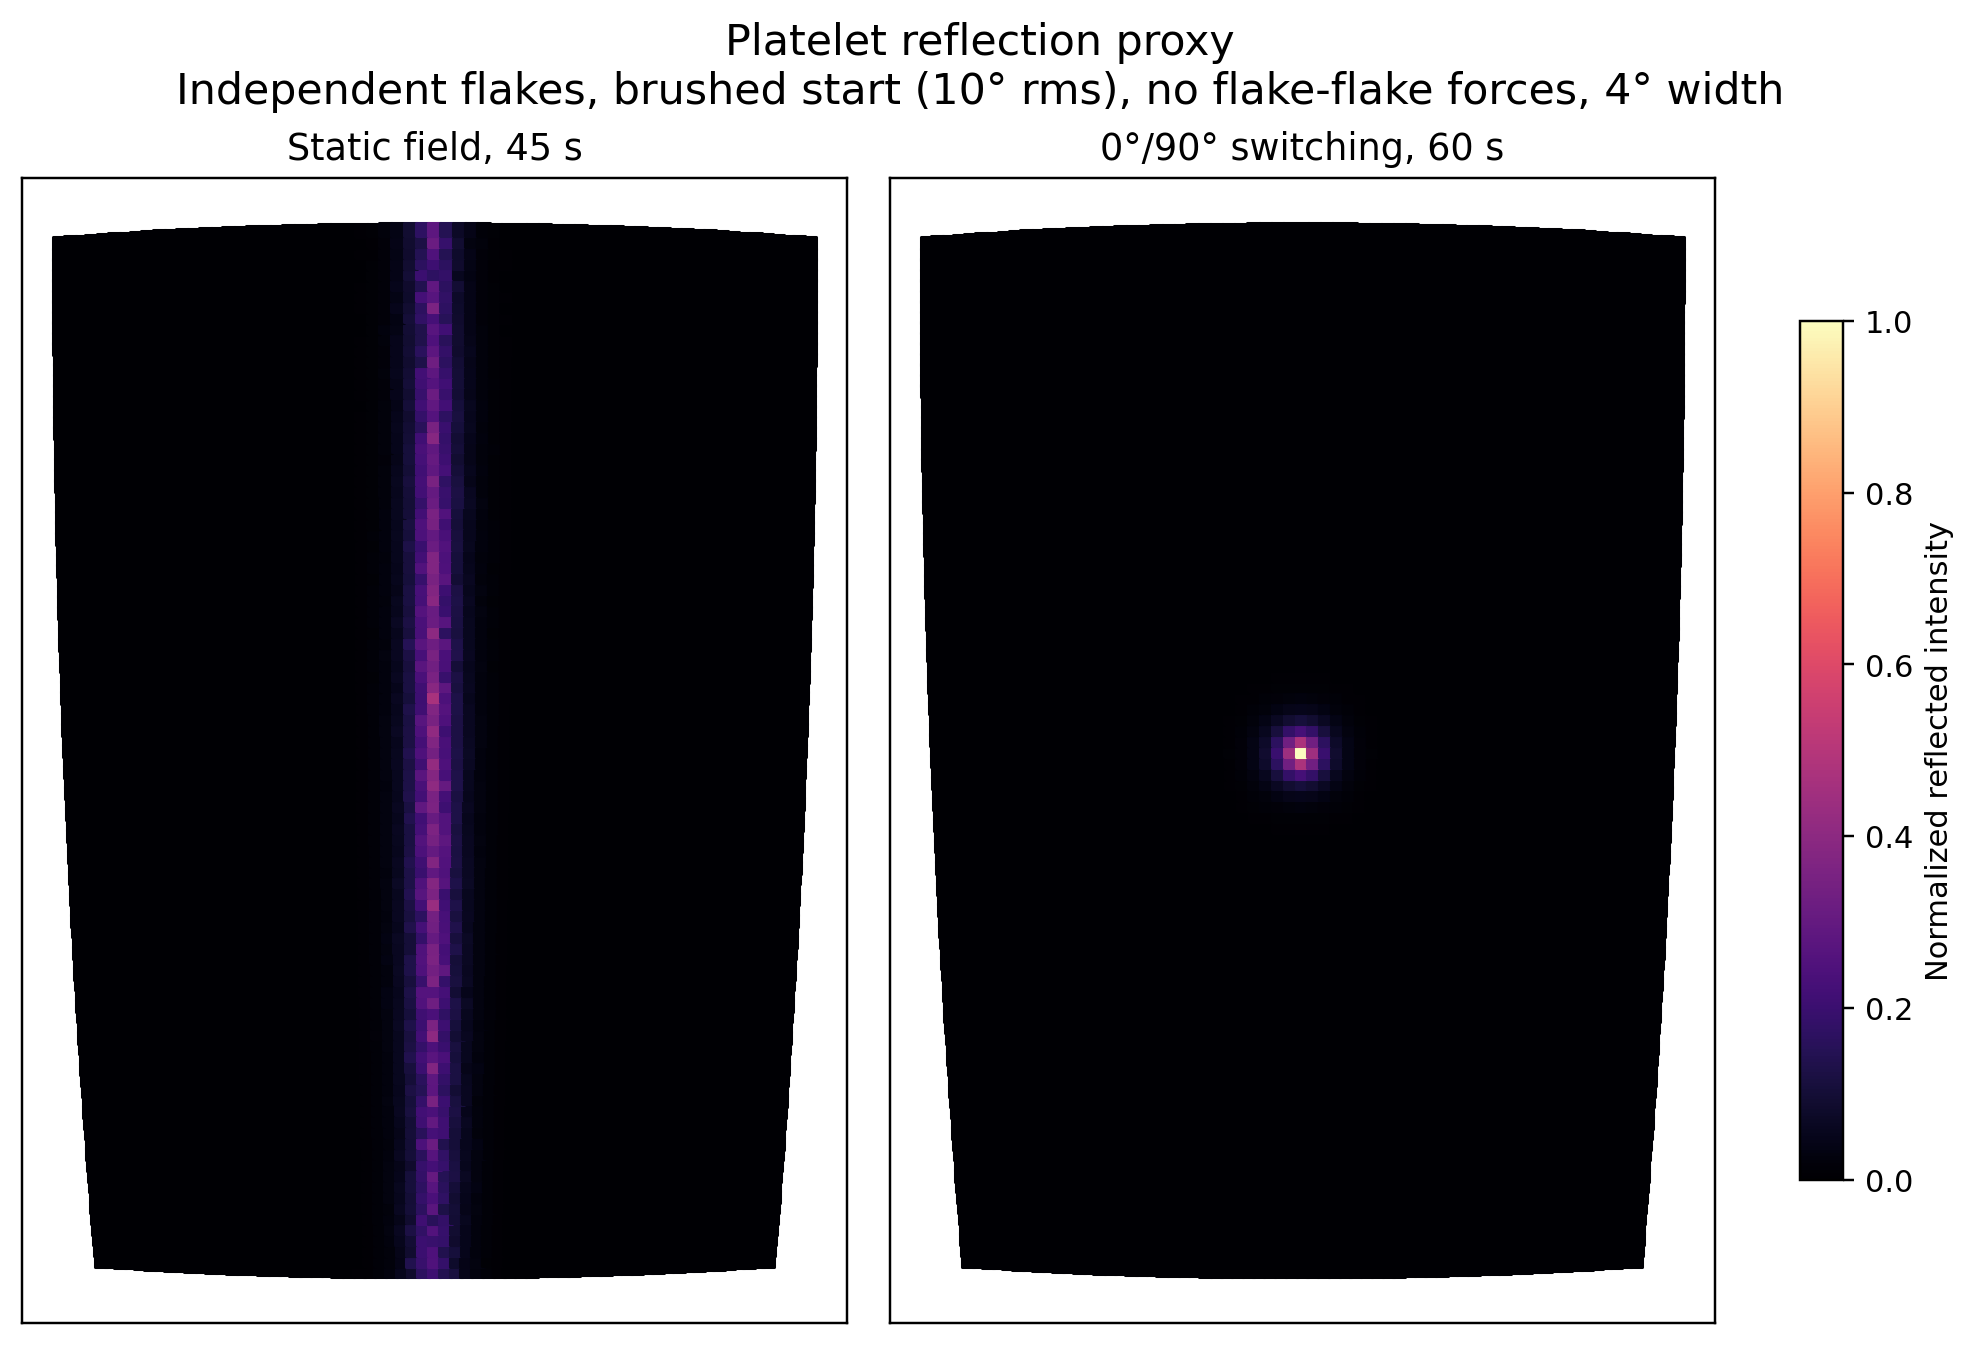
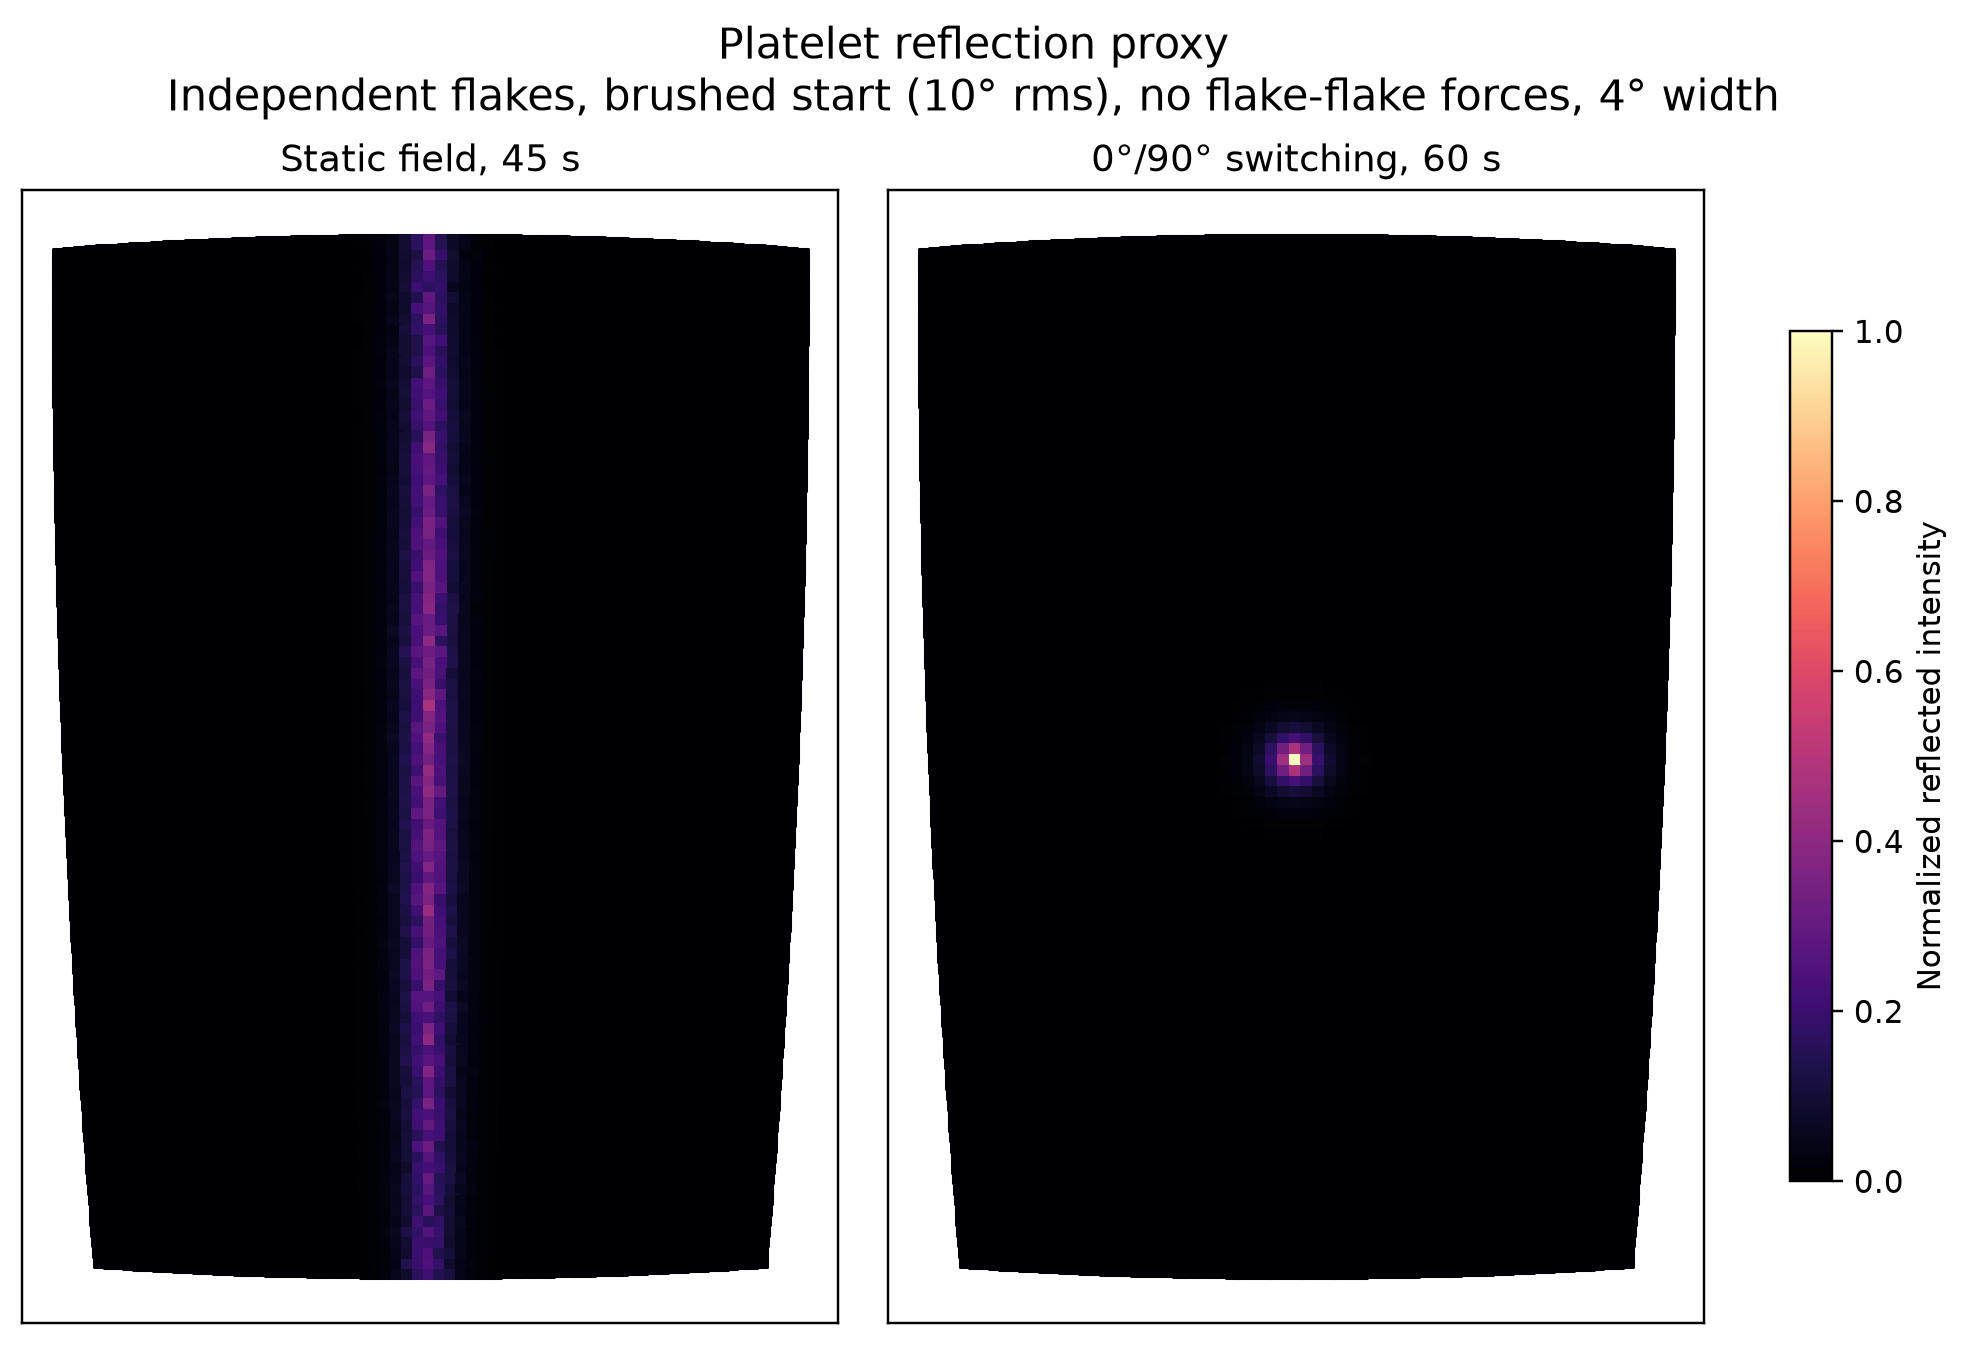
Update brushed-start reflection results

Changed region(s): [[0.0, 0.0, 0.8984, 0.968], [0.8984, 0.2186, 0.9914, 0.9056], [0.6196, 0.5309, 0.6816, 0.5933]]

diff --git a/README.md b/README.md
@@ -429,55 +429,70 @@ Run locally using the saved states
 
 ## Optical reflection proxy (Nov 19)
 
-`visualization/render_brdf.py` evolves independent
-platelet normals at each nail point in `spike/fields.json`.
-The settings are a = 6 um, h/a = 0.1, dchi = 3,
-eta = 300, random start, seed 1, log-normal rate spread
-0.55, RK4 with dt = 0.05 s, 32 flakes per point.
+`visualization/render_brdf.py` evolves independent platelet normals
+at each nail point in `spike/fields.json`. The main figures now use
+a 10 deg rms brushed start, matching the initial orientation used
+in the Discovery runs. The original random 3D start is retained
+with `--start random`.
 
-For a normal n and half-vector H = (0,0,1), the
-reflection contribution is exp(-theta/w), where
-theta = acos(|n.H|) and w is the angular width.
-Contributions are averaged per nail point, and both
-panels share a maximum for normalisation.
+Other settings: a = 6 um, h/a = 0.1, dchi = 3, eta = 300,
+seed 1, log-normal rate spread 0.55, RK4 with dt = 0.05 s,
+32 flakes per point.
+
+For a normal n and half-vector H = (0,0,1), the reflection
+contribution is exp(-theta/w), where theta = acos(|n.H|)
+and w is the angular width. Contributions are averaged per
+nail point, and the static and switching panels share a
+maximum for normalisation.
 
 Static 45 s vs six cycles of 5 s B0 and 5 s B90,
-varying the reflection width only:
+with a brushed start:
 
 | width (deg) | static peak | switching peak | static mean | switching mean |
 |---|---|---|---|---|
-| 4 | 0.120 | 1.000 | 0.003 | 0.002 |
-| 8 | 0.197 | 1.000 | 0.011 | 0.007 |
-| 12 | 0.268 | 1.000 | 0.025 | 0.017 |
+| 4 | 0.466 | 1.000 | 0.018 | 0.002 |
+| 8 | 0.626 | 1.000 | 0.052 | 0.007 |
+| 12 | 0.714 | 1.000 | 0.091 | 0.017 |
 
 Reading:
 
-- The static field gives a weak vertical stripe;
-  switching gives a compact bright patch. Both patterns
-  persist at all three widths.
-- Switching has the higher peak but a lower spatial
-  mean. At 8 deg its peak is about five times the static
-  peak.
+- The static field gives a narrow cat-eye stripe, while switching
+  gives a compact bright patch. Both patterns persist at all
+  three reflection widths.
+- The brushed start makes the static stripe brighter. At 8 deg
+  its peak rises from 0.197 with a random start to 0.626 with
+  a brushed start.
+- Switching still has the higher peak, but the static stripe
+  has the higher spatial mean.
+- The random-start 8 deg run reproduces the earlier results:
+  static peak 0.197, mean 0.011; switching peak 1.000,
+  mean 0.007.
 - This is a reflection proxy, not calibrated reflectance.
-  The width is assumed and each width run has its own
-  normalisation.
-- The optical model uses independent flakes with a
-  random start, not the interacting flakes from the
-  Discovery runs above. No flake-flake forces are
-  included here.
+  The model uses independent flakes without flake-flake forces,
+  unlike the interacting-particle Discovery runs. Each width
+  is normalised separately, and the two protocols have
+  different hold times.
 
 Run locally:
 
     RUNS="results/visualization"
     for WIDTH in 4 8 12; do
-        python visualization/render_brdf.py spike/fields.json --eta 300 --flakes 32 --width-deg "$WIDTH" --output "$RUNS/brdf_width_${WIDTH}.png"
+        python visualization/render_brdf.py spike/fields.json --eta 300 --flakes 32 --start brushed --start-deg 10 --width-deg "$WIDTH" --output "$RUNS/brdf_width_${WIDTH}.png"
     done
 
-Reflection maps: [4 deg](results/visualization/brdf_width_4.png),
+For the original random-start comparison:
+
+    python visualization/render_brdf.py spike/fields.json --eta 300 --flakes 32 --start random --width-deg 8 --output results/visualization/brdf_width_8_random.png
+
+Brushed-start maps: [4 deg](results/visualization/brdf_width_4.png),
 [8 deg](results/visualization/brdf_width_8.png),
 [12 deg](results/visualization/brdf_width_12.png).
 
-![Reflection proxy, 8 deg](results/visualization/brdf_width_8.png)
+Random-start maps: [4 deg](results/visualization/brdf_width_4_random.png),
+[8 deg](results/visualization/brdf_width_8_random.png),
+[12 deg](results/visualization/brdf_width_12_random.png).
+
+![Reflection proxy, brushed start, 8 deg](results/visualization/brdf_width_8.png)
 
 ## More visualisations (Nov 20)
 
@@ -489,7 +504,7 @@ Five extra views of the same results. The optical ones (light sweep, time-lapse)
 | `visualization/chain_clusters.py` | `chain_clusters.png` | every connected chain cluster coloured separately, plus the fraction of flakes per cluster size; largest cluster 356 (static, along B0) vs 57 (switching, along B90) |
 | `visualization/flakes_vmd.py` | `flakes3d_pair.png` | the flakes as 3D discs in VMD, coloured by tilt (blue flat, red 45 deg or more) |
 | `visualization/light_sweep.py` | `light_sweep.mp4`, `light_sweep_still.png` | the nail under a moving point light, light and eye 25 cm above; each nail point has its own half-vector, so the bead slides as the light tilts |
-| `visualization/timelapse.py` | `timelapse.mp4` | 0-60 s from a random start: flake normals at the nail centre (top) and the whole nail lit from overhead (bottom); static leaves a stripe, switching collapses to a bead within a few seconds of the first B90 phase |
+| `visualization/timelapse.py` | `timelapse.mp4` | 0-60 s from a brushed start (10 deg): flake normals at the nail centre (top) and the whole nail lit from overhead (bottom); static leaves a stripe, switching collapses to a bead within a few seconds of the first B90 phase |
 
 Run locally from the repository root (numpy, scipy, matplotlib; ffmpeg for the videos; VMD for the 3D view). The time-lapse peaks at about 2 GB of memory.
 
